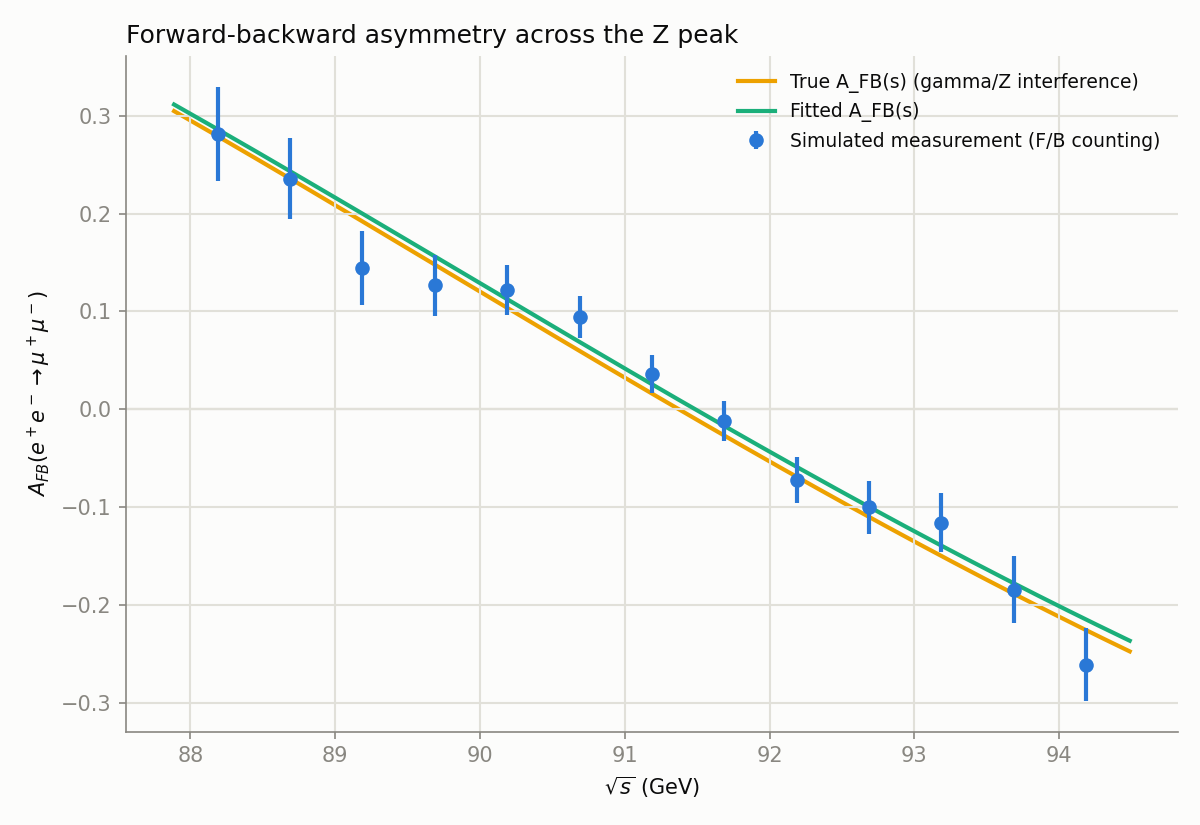
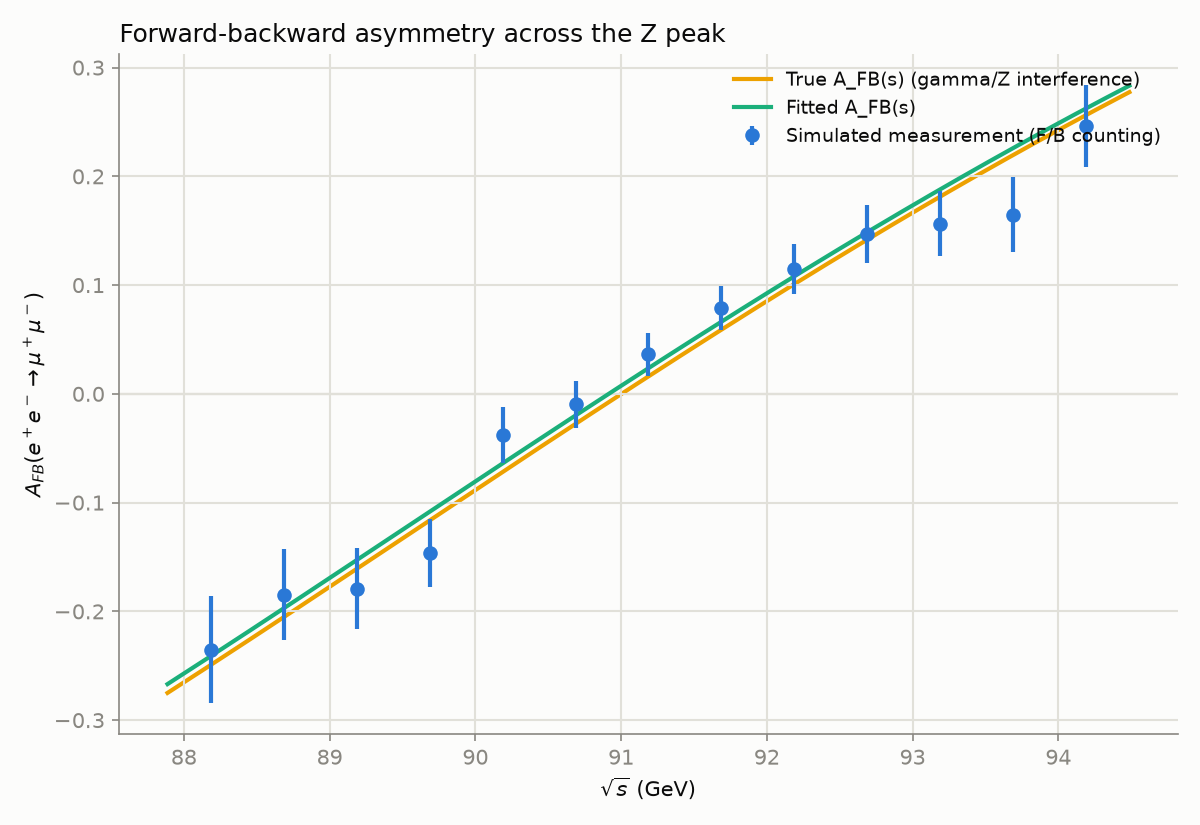
fix: A_FB sign in gamma/Z interference terms; correct README physics

diff --git a/src/simulate_mumu.py b/src/simulate_mumu.py
@@ -72,7 +72,9 @@ TRUE_SIGMA_PEAK_NB = (
 # Standard "improved Born approximation" (IBA) formula (e.g. Renton,
 # Electroweak Interactions): dsigma/dOmega ~ (1+cos^2 theta)*F1(s) +
 # cos(theta)*F2(s), with F1, F2 built from the photon/Z propagator ratio
-# chi(s) and standard lepton vector/axial couplings. A_FB(s) = (3/8)*F2/F1
+# chi(s) and standard lepton vector/axial couplings. theta is the angle between
+# the outgoing mu- and the incoming e- (standard convention: A_FB < 0 below the
+# Z pole, > 0 above). A_FB(s) = (3/8)*F2/F1
 # is the standard result of integrating forward vs. backward hemispheres.
 # This captures the real gamma/Z interference (sign flip below/above the
 # peak) that the constant-A_FB approximation could not -- but note it is a
@@ -97,8 +99,12 @@ def iba_f1_f2(sqrt_s: np.ndarray, sin2thetaw: float, mZ: float, gammaZ: float) -
     v = -0.5 + 2 * sin2thetaw
     a = -0.5
     c = chi(sqrt_s, mZ, gammaZ)
-    f1 = Q_LEPTON**4 - 2 * Q_LEPTON**2 * v * v * np.real(c) + (v**2 + a**2) ** 2 * np.abs(c) ** 2
-    f2 = -4 * Q_LEPTON**2 * a * a * np.real(c) + 8 * (v * a) ** 2 * np.abs(c) ** 2
+    # Q_f enters the interference terms LINEARLY (the electron's charge is
+    # absorbed into the sign convention). Squaring it here flipped the sign of
+    # A_FB until 2026-09-27; checked against an independent helicity-amplitude
+    # calculation, which this form now matches to machine precision.
+    f1 = Q_LEPTON**2 - 2 * Q_LEPTON * v * v * np.real(c) + (v**2 + a**2) ** 2 * np.abs(c) ** 2
+    f2 = -4 * Q_LEPTON * a * a * np.real(c) + 8 * (v * a) ** 2 * np.abs(c) ** 2
     return f1, f2
 
 
@@ -235,7 +241,10 @@ def fit_afb(scan: pd.DataFrame, mZ: float, gammaZ: float) -> Minuit:
         scan["afb_err"].to_numpy(),
         model,
     )
-    minuit = Minuit(least_squares, sin2thetaw=0.25)
+    # A_FB depends on sin2(theta_W) only through v^2, so the fit is exactly
+    # symmetric under s2w -> 0.5 - s2w and s2w = 0.25 (v = 0) is a stationary
+    # point. Start on the physical branch, below 0.25, not on the saddle.
+    minuit = Minuit(least_squares, sin2thetaw=0.23)
     minuit.migrad()
     minuit.hesse()
     return minuit

diff --git a/src/simulate_mumu_mg5.py b/src/simulate_mumu_mg5.py
@@ -160,15 +160,22 @@ def run_mg5_launch(sqrt_s: float, nevents: int, seed: int) -> tuple[Path, float]
 
 
 def parse_lhe_costheta(lhe_path: Path) -> np.ndarray:
-    """cos(theta) of the outgoing mu- relative to the e+ beam direction (pdg
-    -11, confirmed by hand to consistently carry pz=+E_beam in this
-    process's LHE output). The lab frame is the CM frame here since
-    lpp1=lpp2=0 -- no PDF/parton boost to undo."""
+    """cos(theta) of the outgoing mu- relative to the incoming e- direction,
+    the standard A_FB convention. The e- direction is read from each event
+    rather than assumed, so the result does not depend on which beam MG5 puts
+    along +z. The lab frame is the CM frame here since lpp1=lpp2=0 -- no
+    PDF/parton boost to undo.
+
+    Until 2026-09-27 this measured theta from the e+ beam, which flips A_FB.
+    Combined with a sign error in simulate_mumu.iba_f1_f2 the two flips
+    cancelled in F2, and the leftover mismatch in F1 pulled the A_FB fit to
+    sin2(theta_W) = 0.25 exactly."""
     with gzip.open(lhe_path, "rt") as f:
         text = f.read()
     costhetas = []
     for block in text.split("<event>")[1:]:
         body = block.split("</event>")[0]
+        p_mu = p_em = None
         for line in body.splitlines():
             fields = line.split()
             if len(fields) < 10:
@@ -177,10 +184,13 @@ def parse_lhe_costheta(lhe_path: Path) -> np.ndarray:
                 pdg, status = int(fields[0]), int(fields[1])
             except ValueError:
                 continue
-            if pdg == 13 and status == 1:
-                px, py, pz = float(fields[6]), float(fields[7]), float(fields[8])
-                costhetas.append(pz / np.sqrt(px**2 + py**2 + pz**2))
-                break
+            p = np.array([float(fields[6]), float(fields[7]), float(fields[8])])
+            if pdg == 11 and status == -1:
+                p_em = p
+            elif pdg == 13 and status == 1:
+                p_mu = p
+        if p_mu is not None and p_em is not None:
+            costhetas.append(float(p_mu @ p_em / (np.linalg.norm(p_mu) * np.linalg.norm(p_em))))
     return np.array(costhetas)
 
 

diff --git a/README.md b/README.md
@@ -39,8 +39,8 @@ done here.
 | 2 | What about the 7th? | **1993 "peak" is $-7.5\%$ off**, and the miss is isolated to the two *track-based* channels ($\mu\mu$, $\tau\tau$). The calorimeter channels ($qq$, $ee$) are fine, which points at the luminosity rather than a transcription error |
 | 3 | Fit a Breit-Wigner to the clean points, giving $M_Z$, $\Gamma_Z$? | $91.459\,/\,2.799$ GeV, i.e. 272 and 304 MeV above PDG. Good $\chi^2/\mathrm{ndof}$ (0.52/3), wrong answer |
 | 4 | Same fit, with QED initial-state radiation convolved in? | $\mathbf{91.179 \pm 0.012\,/\,2.518 \pm 0.019}$ GeV, within $1\sigma$ and $1.2\sigma$ of PDG. ISR was worth $-280$ MeV on both |
-| 5 | Is that ISR machinery correct, or just tuned to land on PDG? | Toy-MC closure test against a *known* truth: the no-ISR fit lands $+16.1\sigma\,/\,+9.8\sigma$ off, the ISR fit $-1.2\sigma\,/\,-0.4\sigma$ off. It recovers the generating parameters |
-| 6 | Can a second, independent observable come out of the same events? | $\sin^2\theta_W^{\mathrm{eff}} = 0.22596 \pm 0.00343$ from the forward-backward asymmetry (true input 0.23155, $-1.6\sigma$) |
+| 5 | Is that ISR machinery correct, or just tuned to land on PDG? | Toy-MC closure test against a *known* truth: the no-ISR fit lands $+16.2\sigma\,/\,+9.7\sigma$ off, the ISR fit $-1.1\sigma\,/\,-0.5\sigma$ off. It recovers the generating parameters |
+| 6 | Can a second, independent observable come out of the same events? | $\sin^2\theta_W^{\mathrm{eff}} = 0.22824 \pm 0.00384$ from the forward-backward asymmetry (true input 0.23155, $-0.9\sigma$) |
 | 7 | Does it still work when the truth model is not my own code? | With MadGraph5-generated events and ISR switched off at the generator, the **naive fit now wins** and the ISR fit is $-8.7\sigma$. That inversion is the correct behaviour, and is the strongest evidence the ISR correction does real work |
 
 Rows 3 and 4 are the physics result. Rows 5 to 7 are the evidence that row 4
@@ -196,16 +196,22 @@ and the lepton neutral-current couplings
 
 $$v = -\tfrac{1}{2} + 2\sin^2\theta_W, \qquad a = -\tfrac{1}{2}$$
 
-the differential cross section in the improved Born approximation is
+the differential cross section in the improved Born approximation, with
+$\theta$ the angle between the outgoing $\mu^-$ and the incoming $e^-$, is
 
 $$\frac{d\sigma}{d\Omega} = \frac{\alpha^2}{4s}\Big[(1+\cos^2\theta)\,F_1(s) + \cos\theta\,F_2(s)\Big]$$
 
-$$F_1 = \underbrace{Q_\ell^4}_{\gamma\ \mathrm{only}} - \underbrace{2Q_\ell^2 v^2\,\mathrm{Re}\,\chi}_{\gamma/Z\ \mathrm{interference}} + \underbrace{(v^2+a^2)^2|\chi|^2}_{Z\ \mathrm{only}}, \qquad F_2 = -4Q_\ell^2a^2\,\mathrm{Re}\,\chi + 8(va)^2|\chi|^2$$
+$$F_1 = \underbrace{Q_\ell^2}_{\gamma\ \mathrm{only}} - \underbrace{2Q_\ell v^2\,\mathrm{Re}\,\chi}_{\gamma/Z\ \mathrm{interference}} + \underbrace{(v^2+a^2)^2|\chi|^2}_{Z\ \mathrm{only}}, \qquad F_2 = -4Q_\ell a^2\,\mathrm{Re}\,\chi + 8(va)^2|\chi|^2$$
 
-The three pieces of $F_1$ are the point: **a pure Breit-Wigner keeps only the
-last one.** The interference term carries $\mathrm{Re}\,\chi$, which changes
-sign across the resonance, so dropping it distorts the lineshape
-*antisymmetrically* about the peak -- exactly the direction that biases a mass.
+with $Q_\ell = -1$ entering the interference terms *linearly* (the electron's
+charge is absorbed into the sign). This form agrees to machine precision with
+an independent helicity-amplitude calculation.
+
+A pure Breit-Wigner keeps only the last piece of $F_1$. For leptons that costs
+little: the interference term in $F_1$ carries $v^2 \approx 0.0014$, so it
+barely touches the $\mu^+\mu^-$ lineshape ($-1.5$ MeV on $M_Z$ here; see
+Caveats). Its real footprint is in $F_2$, where it enters with
+$a^2 = 1/4$.
 
 Two integrals follow. Over the full solid angle the $\cos\theta$ term vanishes
 and $\int d\Omega\,(1+\cos^2\theta) = 16\pi/3$, so
@@ -219,8 +225,8 @@ $$A_{\mathrm{FB}} = \frac{F-B}{F+B} = \frac{F_2}{\tfrac{8}{3}F_1} = \frac{3}{8}\
 
 which is the `0.375 * f2 / f1` in the code. Because $F_2$ is dominated by
 $\mathrm{Re}\,\chi$ near the peak, $A_{\mathrm{FB}}$ flips sign as $\sqrt{s}$
-crosses $M_Z$: the sign flip in the asymmetry plot is the interference term
-made directly observable.
+crosses $M_Z$ -- negative below, positive above -- and the sign flip in the
+asymmetry plot is the interference term made directly observable.
 
 The same couplings fix the leptonic partial width,
 
@@ -243,7 +249,7 @@ which matters when comparing sections 2 and 3:
 The $\sim 0.009$ gap is physical, not a discrepancy: the on-shell definition is
 a tree-level relation between measured masses, the effective one absorbs loop
 corrections into the coupling $A_{\mathrm{FB}}$ actually measures. Quoting a
-fitted asymmetry against the wrong one is a $2.5\%$ error from bookkeeping
+fitted asymmetry against the wrong one is a $4\%$ error from bookkeeping
 alone.
 
 ### 0.5 Initial-state radiation, and why it biases the mass
@@ -252,8 +258,9 @@ Before annihilating, the electron or positron can radiate a photon, so the
 annihilation happens at a *lower* effective energy
 $\sqrt{s'} = \sqrt{s}\sqrt{1-x}$. Radiation only ever goes one way -- you
 cannot radiate energy *into* a collision -- so the distortion is one-sided:
-**the observed peak sits too high in energy and is smeared toward the low
-side.** Fitting an unradiated Breit-Wigner to radiated data therefore returns
+**the observed peak moves up in energy and grows a radiative tail on the
+high-energy side**, because above the resonance a collision can radiate down
+onto it. Fitting an unradiated Breit-Wigner to radiated data therefore returns
 too large a mass and width, which is exactly what this project sees
 (+272 MeV, +304 MeV).
 
@@ -261,18 +268,23 @@ The correction convolves with the probability $H(x)$ of losing a fraction $x$:
 
 $$\sigma_{\mathrm{obs}}(s) = \int_0^{x_{\max}} H(x)\,\sigma_{\mathrm{born}}\big(s(1-x)\big)\,dx$$
 
-In the leading-log (Kuraev-Fadin) structure-function approach, soft and virtual
-photons exponentiate into a power law and the first hard-photon correction is
-kept explicitly:
+In the leading-log structure-function approach, soft and virtual photons
+exponentiate into a power law. To $\mathcal{O}(\alpha)$ the radiator is
 
-$$H(x) = \beta\,x^{\beta-1}\left(1 - \frac{x}{2}\right), \qquad \beta = \frac{2\alpha}{\pi}\left(\ln\frac{s}{m_e^2} - 1\right)$$
+$$H(x) = \beta\,x^{\beta-1}\left(1 + \frac{3}{4}\beta\right) - \beta\left(1 - \frac{x}{2}\right), \qquad \beta = \frac{2\alpha}{\pi}\left(\ln\frac{s}{m_e^2} - 1\right)$$
 
-At the Z, $\beta = 0.1077$. The exponent is negative ($x^{-0.89}$), so $H$
-diverges as $x \to 0$ -- infinitely many arbitrarily soft photons -- but
-integrably: $\int_0^1 \beta x^{\beta-1}dx = 1$ exactly, the statement that
-*something* always happens. With the hard term,
-$\int_0^1 H\,dx = 1 - \beta/(2(1+\beta)) = 0.951$; the missing $5\%$ is
-radiation hard enough to leave the truncation's domain.
+where $\tfrac34\beta$ is the soft+virtual correction and $-\beta(1-x/2)$ the
+hard-photon term. Both follow from the QED splitting function
+$[(1+z^2)/(1-z)]_+$, whose plus prescription makes $\int_0^1 H\,dx = 1$
+exactly: radiation moves cross section to lower energy without creating or
+destroying it. At the Z, $\beta = 0.1077$, so $x^{\beta-1} = x^{-0.89}$
+diverges as $x \to 0$ -- arbitrarily soft photons -- but integrably.
+
+**The code uses a simplified form**, $\beta x^{\beta-1}(1 - x/2)$, which drops
+the soft+virtual factor and applies the hard correction multiplicatively. It
+integrates to $0.951$ rather than 1. The normalization is absorbed by the free
+$\sigma_{\mathrm{peak}}$; the shape difference is not, and moves the fitted
+$M_Z$ by $+7$ MeV and $\Gamma_Z$ by $+10$ MeV (see Caveats).
 
 Two practical consequences:
 
@@ -360,9 +372,9 @@ construction. A good $\chi^2$ hid a 272 MeV bias.
 
 ### The ISR correction
 
-The third row convolves the Breit-Wigner with the QED radiator $H(x)$ of
-section 0.5, integrated numerically with `scipy.integrate.quad`. It is a
-truncated leading-log treatment, not the ZFITTER-level radiator LEP itself
+The third row convolves the Breit-Wigner with the simplified QED radiator
+described in section 0.5, integrated numerically with `scipy.integrate.quad`.
+It is a truncated leading-log treatment, not the ZFITTER-level radiator LEP itself
 used: enough to get the direction and rough size of the effect out of six
 points, not enough for LEP precision.
 
@@ -408,8 +420,8 @@ return what went in.
 
 | Fit | $\chi^2/\mathrm{ndof}$ | $M_Z$ (GeV) | $\Gamma_Z$ (GeV) | pull vs. **true input** |
 |---|---|---|---|---|
-| Naive (no ISR) | 67.46/10 | $91.4205 \pm 0.0145$ | $2.9188 \pm 0.0431$ | $\mathbf{+16.1\sigma\,/\,+9.8\sigma}$ |
-| ISR-convolved | 5.82/10 | $91.1701 \pm 0.0144$ | $2.4808 \pm 0.0404$ | $\mathbf{-1.21\sigma\,/\,-0.36\sigma}$ |
+| Naive (no ISR) | 71.52/10 | $91.4220 \pm 0.0145$ | $2.9121 \pm 0.0430$ | $\mathbf{+16.2\sigma\,/\,+9.7\sigma}$ |
+| ISR-convolved | 5.69/10 | $91.1718 \pm 0.0144$ | $2.4750 \pm 0.0403$ | $\mathbf{-1.10\sigma\,/\,-0.51\sigma}$ |
 
 With 13 well-separated points instead of 3 clusters, the missing-ISR bias can
 no longer hide inside a flattering $\chi^2/\mathrm{ndof}$ as it nearly did on
@@ -447,10 +459,16 @@ real two-step LEP procedure.
        alt="Forward-backward asymmetry across the Z peak, showing the sign flip">
 </p>
 
-$\chi^2/\mathrm{ndof} = 7.50/12$ and
-$\sin^2\theta_W^{\mathrm{eff}} = 0.22596 \pm 0.00343$ against the true input
-0.23155, a $-1.63\sigma$ pull. The measured points trace the expected sign flip
-across the peak, positive below and negative above.
+$\chi^2/\mathrm{ndof} = 8.65/12$ and
+$\sin^2\theta_W^{\mathrm{eff}} = 0.22824 \pm 0.00384$ against the true input
+0.23155, a $-0.86\sigma$ pull. The measured points trace the sign flip across
+the peak, negative below and positive above.
+
+$A_{\mathrm{FB}}$ depends on $\sin^2\theta_W$ only through $v^2$, so the fit
+is exactly symmetric under $\sin^2\theta_W \to 0.5 - \sin^2\theta_W$ and has
+a mirror solution with identical $\chi^2$; the fit starts on the physical
+branch below 0.25. (These numbers changed on 2026-09-27 when a sign error in the
+interference terms was fixed -- see section 3.)
 
 ### Known limitations
 
@@ -458,12 +476,12 @@ across the peak, positive below and negative above.
   agreement with an independent higher-order QED calculation: the same
   truncated leading-log radiator both generates and fits the sample, so a
   shared blind spot inside it would not show up here. Section 3 exists to
-  attack exactly that.
+  attack exactly that -- and it did; see the correction there.
 - Constant toy luminosity and a flat $|\cos\theta|$ acceptance cut, not real
   detector geometry or a realistic efficiency curve.
 - Only leptonic couplings are modeled. A real
   $\sin^2\theta_W^{\mathrm{eff}}$ extraction combined multiple final states at
-  far higher statistics; $-1.63\sigma$ from 13 points at 2 pb<sup>-1</sup> is
+  far higher statistics; $-0.86\sigma$ from 13 points at 2 pb<sup>-1</sup> is
   an ordinary statistical fluctuation, not a precision claim.
 
 </details>
@@ -526,14 +544,22 @@ directions*, rather than always nudging toward the expected number.
 
 The $A_{\mathrm{FB}}$ fit therefore fixes $M_Z$/$\Gamma_Z$ from the **naive**
 fit here, unlike section 2 where the ISR-convolved fit was the correct choice
-for OPAL's ISR-affected data:
+for OPAL's ISR-affected data. In `data/processed/simulated_mumu_mg5_closure.png`
+the naive fit and the true curve sit on top of each other while the ISR curve
+visibly diverges.
 
-$\chi^2/\mathrm{ndof} = 13.97/12$ and
-$\sin^2\theta_W^{\text{on-shell}} = 0.25000 \pm 0.01874$ against the
-param_card truth 0.22225, a $+1.48\sigma$ pull, an ordinary fluctuation for 13
-points. In `data/processed/simulated_mumu_mg5_closure.png` the naive fit and
-the true curve sit on top of each other while the ISR curve visibly diverges;
-`..._mg5_afb.png` shows the same clean sign flip as the pure-Python toy.
+**Correction (2026-09-27).** An earlier version quoted
+$\sin^2\theta_W^{\text{on-shell}} = 0.25000 \pm 0.01874$ here as a
+$+1.48\sigma$ fluctuation. It was not a fluctuation. `simulate_mumu.py` had the
+charge squared in the $\gamma/Z$ interference terms, which flipped
+$A_{\mathrm{FB}}$, and this script measured $\theta$ from the $e^+$ beam, which
+flipped it back in $F_2$. The mismatch left in $F_1$ can only be absorbed by
+driving $v^2 \to 0$, i.e. $\sin^2\theta_W \to 0.25$: a noiseless Asimov
+sample with this script's settings lands on exactly 0.25000 from any starting
+value. Both are fixed, and the same Asimov sample now returns
+$0.2223 \pm 0.0067$ against the truth 0.22225. The lineshape results above are
+unaffected (the acceptance cut is symmetric in $\cos\theta$); **the
+$A_{\mathrm{FB}}$ fit needs re-running with MadGraph5.**
 
 ### Running it
 
@@ -592,8 +618,13 @@ Per-script limitations are inside each section above. Project-wide:
 
 - **The ISR radiator is a truncated leading-log approximation**: no
   multi-photon exponentiation beyond leading log, no exact
-  $\mathcal{O}(\alpha^2)$ terms. Enough to show the effect exists and roughly
-  how large it is; not enough to claim LEP-level precision from six points.
+  $\mathcal{O}(\alpha^2)$ terms -- and the code uses a simplified form of even
+  the $\mathcal{O}(\alpha)$ radiator (section 0.5). Switching to the full
+  $\mathcal{O}(\alpha)$ leading-log radiator moves $M_Z$ by $+7$ MeV and
+  $\Gamma_Z$ by $+10$ MeV, the largest model effect identified so far and
+  about $0.6\sigma$ of the statistical error. Enough to show the effect exists
+  and roughly how large it is; not enough to claim LEP-level precision from six
+  points.
 - **Only 3 distinct energy points constrain the real-data fit**
   (peak$-2$, peak, peak$+2$). The other points in Table 1 have no published
   correction factors, so no trustworthy cross section can be computed from
@@ -601,15 +632,15 @@ Per-script limitations are inside each section above. Project-wide:
   stronger than "3 parameters matched 3 clusters".
 - **Only $\mu^+\mu^-$ gets the full compute, validate, fit pipeline**; $qq$,
   $ee$ and $\tau\tau$ are used only for the cross-channel consistency check.
-- **The lineshape model omits photon exchange and $\gamma/Z$ interference**
-  (section 0.3 explains why that matters, and `simulate_mumu.py` already
-  implements the terms for the asymmetry side). Refitting with them included
-  moves $M_Z$ by roughly $-30$ MeV, about $2.5\times$ the quoted fit
-  uncertainty, and brings $\Gamma_Z$ closer to PDG. **The quoted $\pm 12$ MeV
-  is therefore optimistic**: it is a statistical error on a model whose choice
-  is worth more than the error itself. Including the term also requires
-  matching OPAL's own $\sqrt{s'}$ selection cut, because the photon term makes
-  the ISR integral cut-dependent (radiative return, section 0.5).
+- **The lineshape model omits photon exchange and $\gamma/Z$ interference.**
+  For the muon channel both are small. Refitting one term at a time (ISR
+  included, $\sqrt{s'}/\sqrt{s} > 0.9$) moves $M_Z$ by $+3.5$ MeV for photon
+  exchange and $-1.5$ MeV for the interference, which enters the total cross
+  section only through $2v^2 \approx 0.003$ (section 0.3). An earlier version
+  of this README attributed a $\sim -30$ MeV shift to these terms; that shift
+  was the mass-definition change in the next bullet. Including the photon term
+  does make the ISR integral depend on OPAL's own $\sqrt{s'}$ cut (radiative
+  return, section 0.5).
 - **The propagator convention is not the LEP one.** The fit uses a
   non-relativistic Breit-Wigner in $\sqrt{s}$; published $M_Z$ values come from
   the relativistic running-width form, and the two mass definitions differ by
@@ -617,7 +648,10 @@ Per-script limitations are inside each section above. Project-wide:
   effect of switching happens to be small ($\sim 5$ MeV, and under $1$ MeV once
   ISR is included) because the numerator and denominator differences cancel,
   but that cancellation is a coincidence of this parametrization, not a reason
-  the convention does not matter.
+  the convention does not matter. Mixing conventions is the real hazard: a
+  fixed-width fit, such as one using the $\chi(s)$ of section 0.3, returns a
+  mass about 34 MeV below the running-width one -- which is what the earlier
+  "$-30$ MeV" actually measured.
 - **Natural extensions**: a joint multi-channel fit for a more realistic
   precision-electroweak treatment; enabling MG5's own ISR/beamstrahlung so
   there is a genuinely ISR-affected generator truth to test the ISR-convolved
